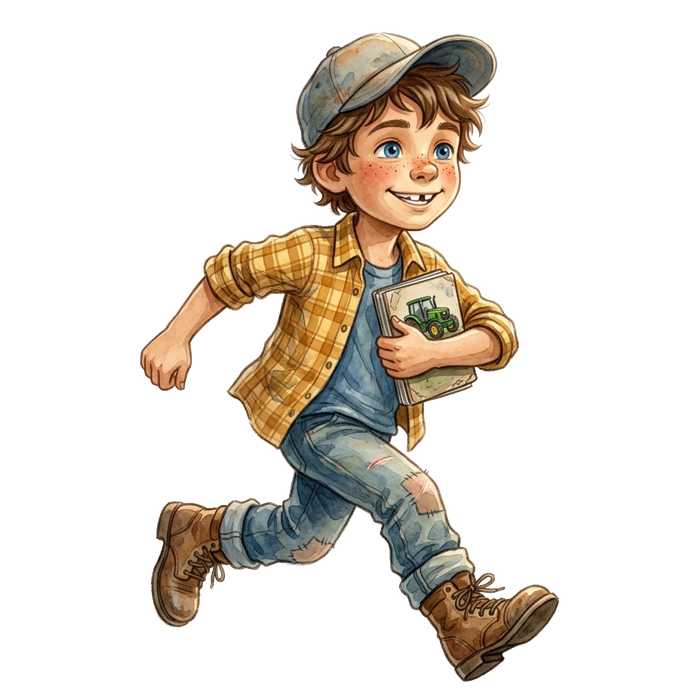
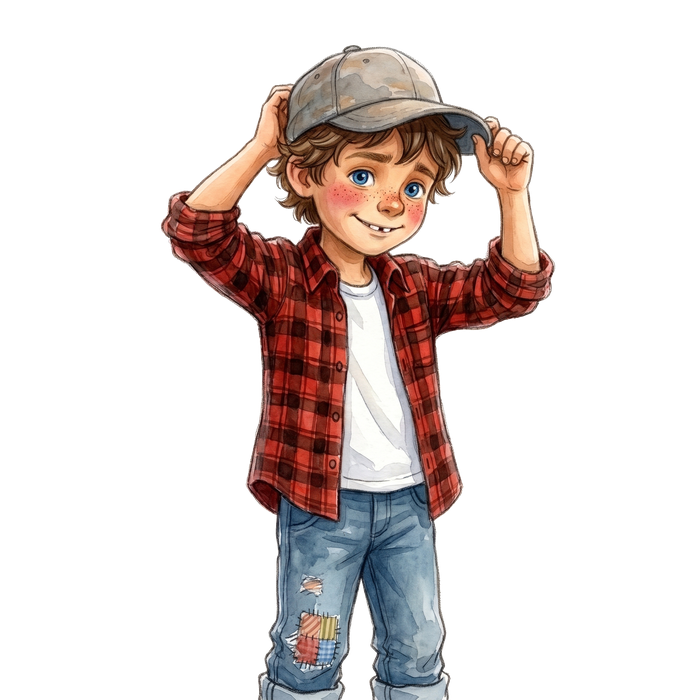
Update characters page

diff --git a/characters.html b/characters.html
@@ -4,7 +4,7 @@
 <meta charset="UTF-8">
 <meta name="viewport" content="width=device-width, initial-scale=1.0">
 <title>Meet the Characters | A Cody &amp; Koda Story</title>
-<meta name="description" content="Meet Cody, Koda, Nimbus, and the rest of the Briggs family from the Cody & Koda series of illustrated chapter books for ages 7-10.">
+<meta name="description" content="Meet Cody, Koda, Nimbus, Elle, Wyatt, and the rest of the Briggs family from the Cody & Koda series of illustrated chapter books for ages 7-10.">
 <link rel="icon" href="images/favicon.svg" type="image/svg+xml">
 <link rel="stylesheet" href="assets/style.css">
 </head>
@@ -40,7 +40,7 @@
     <div class="char-grid">
 
       <div class="char-card">
-        <div class="char-photo"><img src="images/cody-briggs.png" alt="Illustration of Cody Briggs running with his notebook" loading="lazy"></div>
+        <div class="char-photo"><img src="images/cody-briggs.png" alt="Illustration of Cody Briggs in a red plaid shirt, smiling and tipping his gray cap" loading="lazy"></div>
         <span class="char-role">Age 9 &middot; The Notebook Keeper</span>
         <h3>Cody Briggs</h3>
         <p>Nine years old, farm-raised, and stubborn in the best way. Cody notices things other people miss, a scuffed boot, a missing ribbon, a friend having a hard week, and he can&rsquo;t leave well enough alone once he has. He keeps a notebook on him at all times, just in case.</p>
@@ -58,6 +58,20 @@
         <span class="char-role">The Barn Cat &middot; Sees Everything</span>
         <h3>Nimbus</h3>
         <p>The Briggs family&rsquo;s barn cat. Nobody remembers exactly when she showed up, only that she runs the barn now. Nimbus keeps her own hours, chooses her own people, and misses nothing that happens on the farm. When something goes missing, she&rsquo;s usually the reason, and usually for a good one.</p>
+      </div>
+
+      <div class="char-card">
+        <div class="char-photo"><img src="images/elle-maina.png" alt="Illustration of Elle Maina in round rainbow glasses and a studded denim vest, flashing a peace sign" loading="lazy"></div>
+        <span class="char-role">Age 9 &middot; Cody&rsquo;s Best Friend</span>
+        <h3>Elle Maina</h3>
+        <p>Cody&rsquo;s best friend since kindergarten, and the one who actually knows why things stop working. Elle carries a flashlight, a clipboard, and a plan, and she notices when a friend has gone quiet before anyone else does. She has a big laugh, a bigger opinion, and a bedazzled denim vest that makes sure you see her coming.</p>
+      </div>
+
+      <div class="char-card">
+        <div class="char-photo"><img src="images/wyatt-ossowiecki.png" alt="Illustration of Wyatt Ossowiecki with blonde curly hair, green eyes, and a tan puffer vest" loading="lazy"></div>
+        <span class="char-role">Age 10 &middot; Cody&rsquo;s Cousin</span>
+        <h3>Wyatt Ossowiecki</h3>
+        <p>Cody&rsquo;s cousin on his mom&rsquo;s side. Every December his dusty truck rolls up the drive with a duffel bag and a football in the back, and the whole family calls it Wyatt week. He lives in town the rest of the year, so every winter on the farm counts. Wyatt is quick with a grin, quick to yank on a stubborn cord, and he guards his best ideas like treasure.</p>
       </div>
 
       <div class="char-card">
